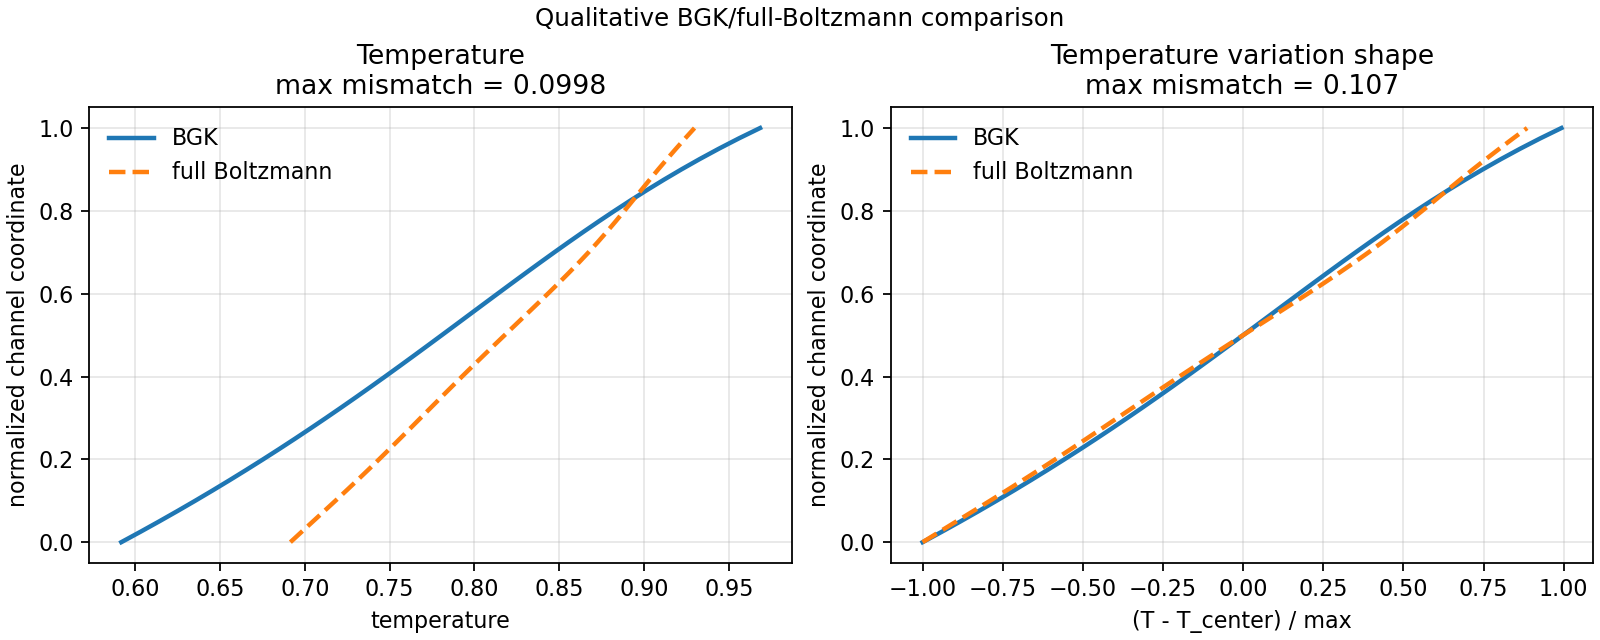
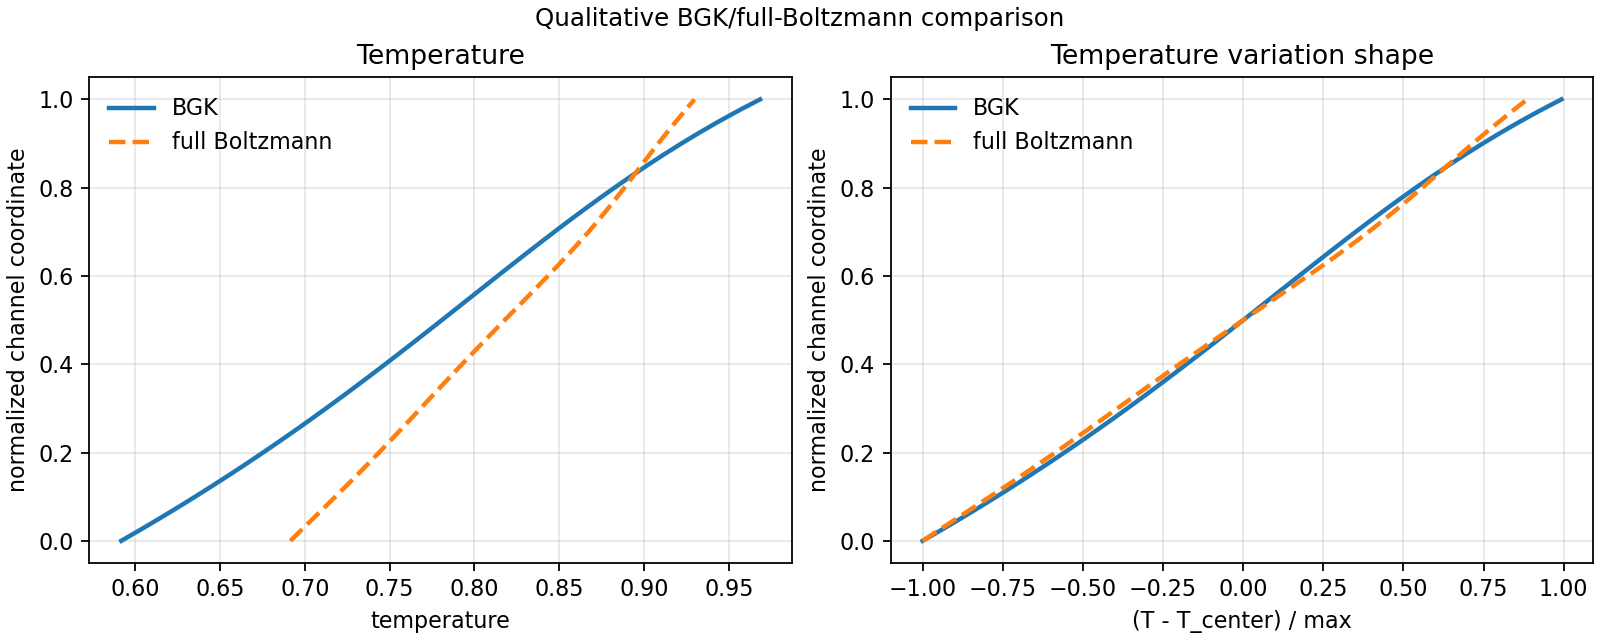
Add full Boltzmann 1D3V solver 13

diff --git a/scripts/plot_bgk_full_comparison.py b/scripts/plot_bgk_full_comparison.py
@@ -93,7 +93,7 @@ def main() -> int:
         bgk_velocity_label = "BGK ($u_x$)"
         full_velocity_label = "full Boltzmann ($u_x$)"
         first_panel = (
-            "Couette flow-direction velocity shape",
+            "Couette velocity",
             normalized(bgk_velocity),
             normalized(full_velocity_i),
             "flow-direction velocity / max",
@@ -134,7 +134,7 @@ def main() -> int:
 
         ax.plot(bgk_values, x, label=bgk_label, linewidth=2.0)
         ax.plot(full_values, x, "--", label=full_label, linewidth=2.0)
-        ax.set_title(f"{title}\nmax mismatch = {mismatch:.3g}")
+        ax.set_title(f"{title}")
         ax.set_xlabel(xlabel)
         ax.set_ylabel("normalized channel coordinate")
         ax.grid(True, alpha=0.3)
